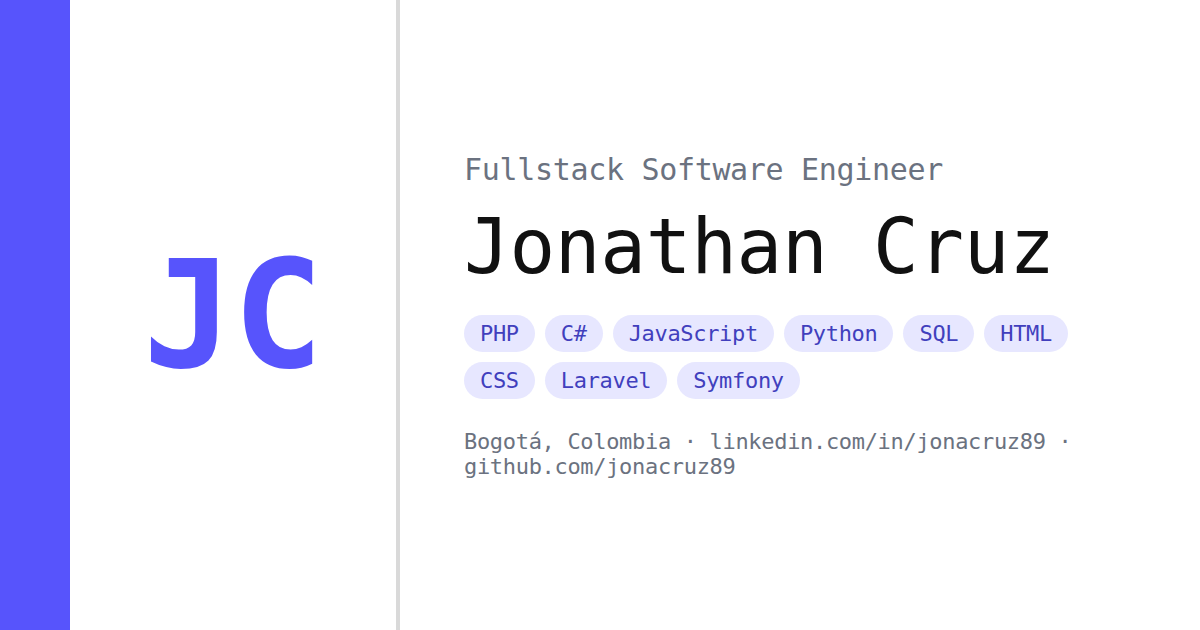
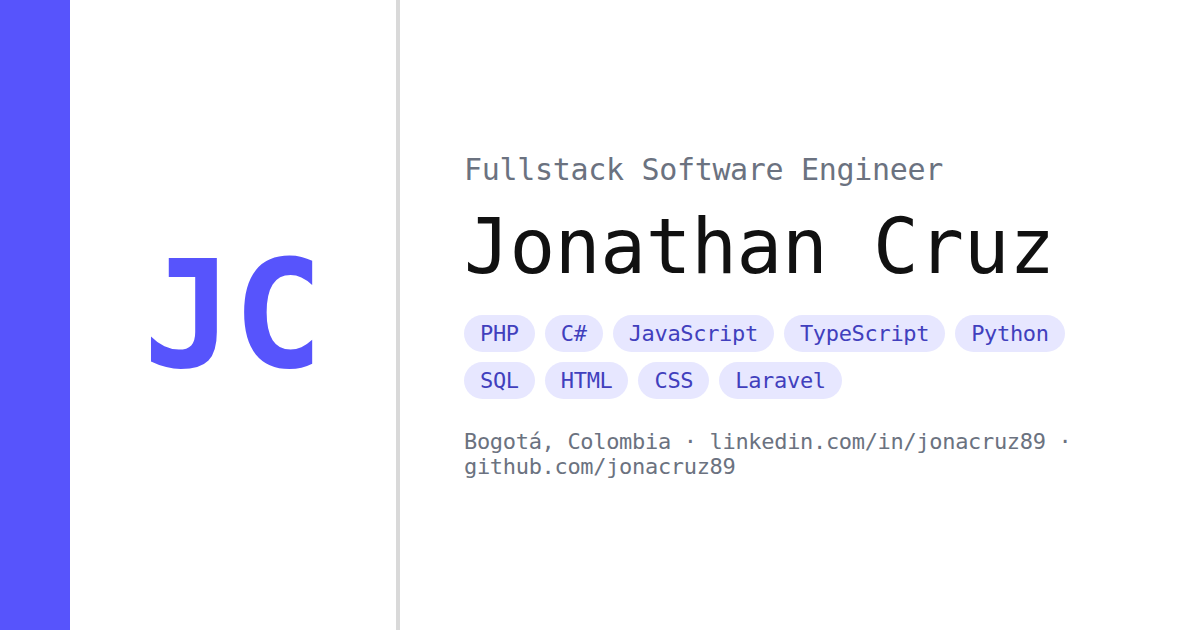
Add Mirai role and update freelance, skills and titles
- Add current Senior WordPress Developer role at Mirai (1,000+ site Multisite network)
- Freelance since 2018 with full stack; summary now reflects 8+ years
- Sveacol title to Senior Fullstack Engineer
- Add TypeScript, CMS group, code-quality skills
- Harvard: hide soft skills and integrations per group ("harvard": false),
  show languages inside skills, tighten spacing to keep two pages

Changed region(s): [[0.4625, 0.573, 0.6783, 0.6333], [0.6475, 0.5127, 0.8942, 0.5429], [0.4008, 0.573, 0.4317, 0.6333]]

diff --git a/src/lib/cv.ts b/src/lib/cv.ts
@@ -130,7 +130,7 @@ export function getCv (locale: Locale) {
         dates: formatRange(e.startDate, e.endDate, locale, false),
         highlights: pick(e.highlights, locale)
       })),
-    skills: data.skills.map((s) => ({ name: pick(s.name, locale), keywords: pick(s.keywords, locale) })),
+    skills: data.skills.map((s) => ({ name: pick(s.name, locale), keywords: pick(s.keywords, locale), harvard: s.harvard })),
     languages: data.languages.map((l) => ({ language: pick(l.language, locale), fluency: pick(l.fluency, locale) }))
   }
 }

diff --git a/src/lib/schema.ts b/src/lib/schema.ts
@@ -107,7 +107,8 @@ export const cvSchema = z.object({
     .array(
       z.object({
         name: text,
-        keywords: textList
+        keywords: textList,
+        harvard: z.boolean().default(true).describe('false = no mostrar este grupo en el formato Harvard')
       })
     )
     .default([]),

diff --git a/README.md b/README.md
@@ -21,6 +21,9 @@ la barra de navegación no sale impresa.
   (`{ "es": "Inglés", "en": "English" }`).
 - **Fechas**: `YYYY`, `YYYY-MM` o `YYYY-MM-DD`. Si un trabajo no tiene `endDate`, se muestra "Actualidad".
 - **Ocultar** un trabajo o estudio sin borrarlo: `"hidden": true`.
+- **Ocultar un grupo de skills solo en Harvard** (por ejemplo, habilidades blandas): `"harvard": false`.
+  En Harvard, los idiomas salen como una línea más dentro de Habilidades.
+- **Años de experiencia**: escribe `{years}` en el resumen y se calcula desde el trabajo más antiguo.
 - **Textos de la interfaz** (títulos de secciones, botones): `src/data/ui.json`.
 
 ### `settings`
